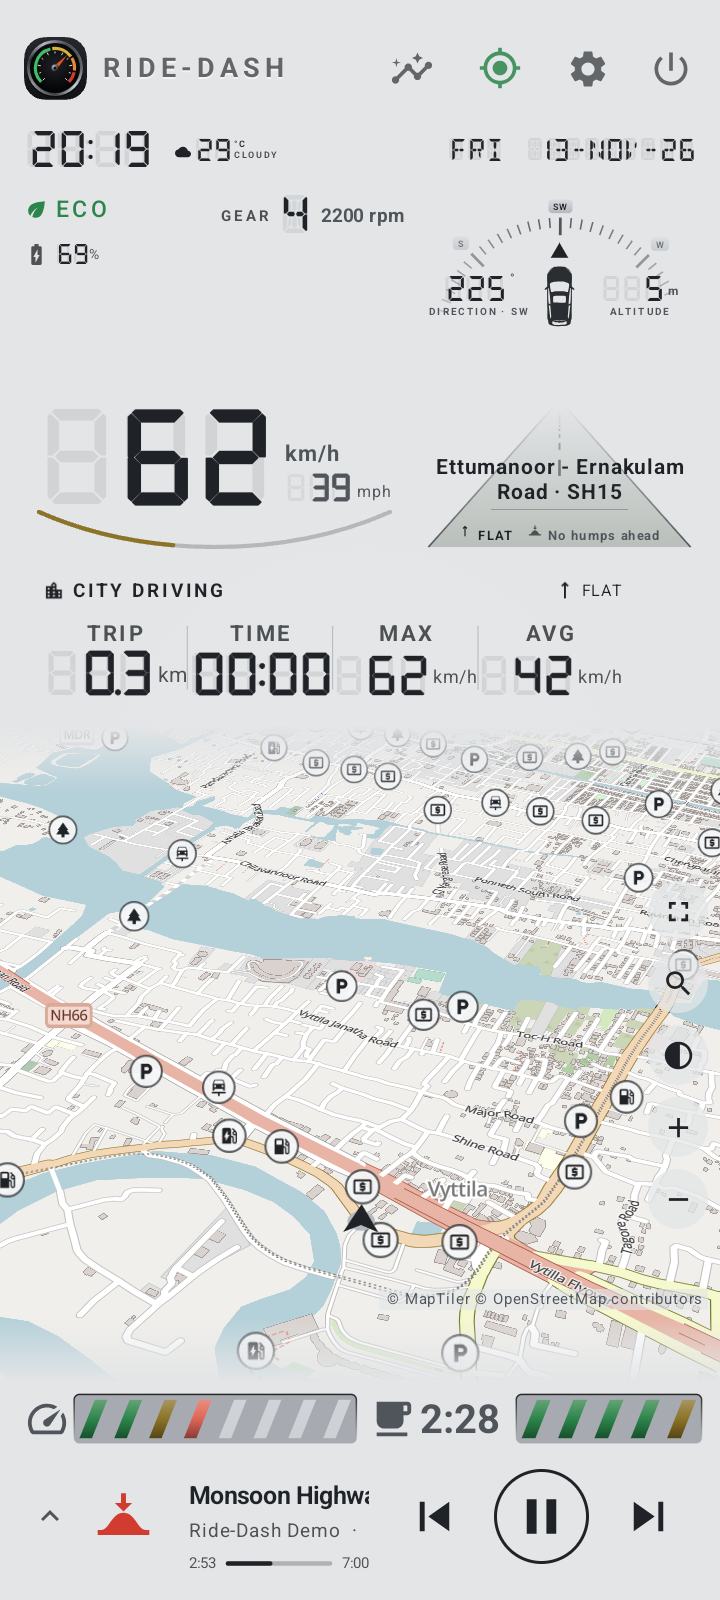
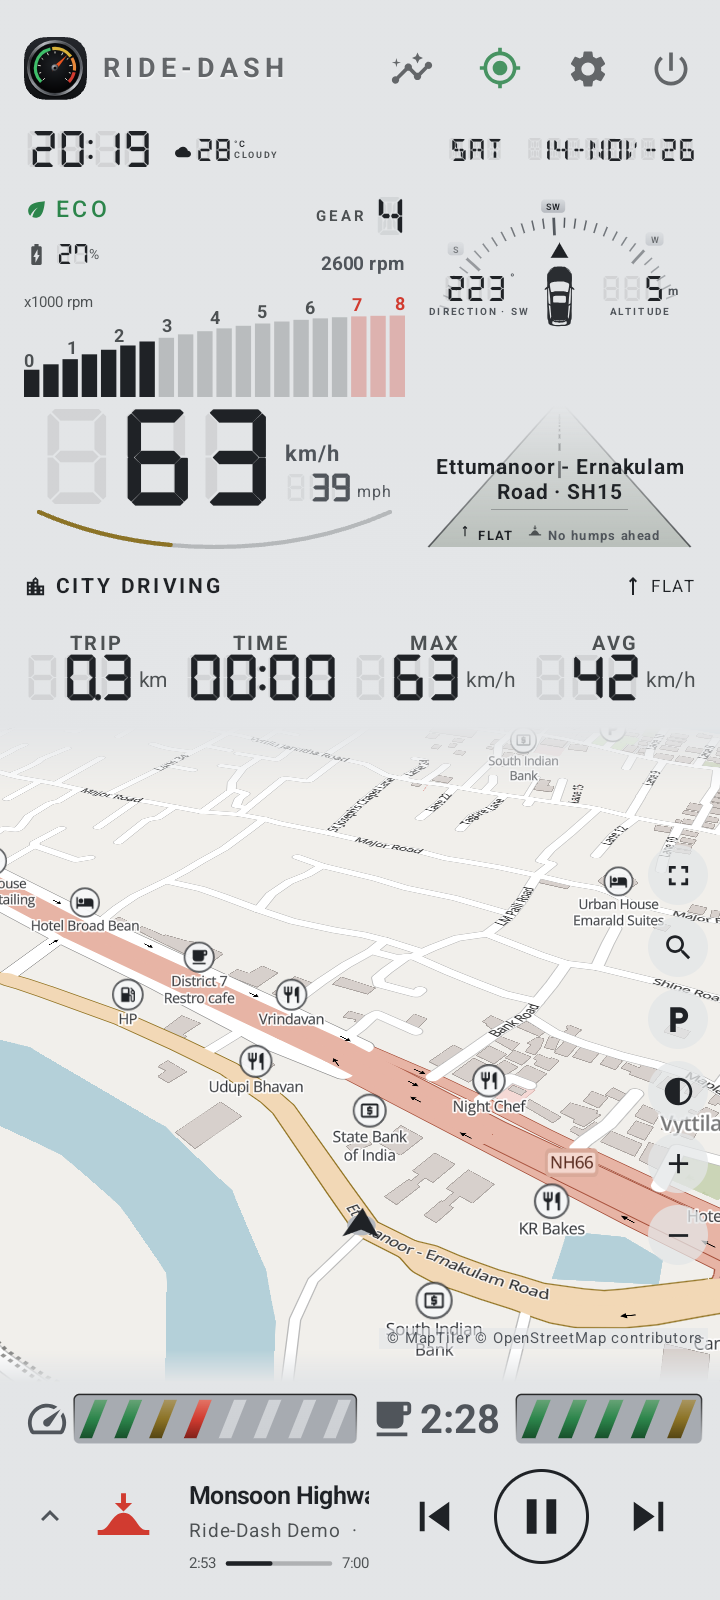
User manual 1.13.1 (portrait rpm display, full-width trip readouts, new portrait screenshots)

diff --git a/user-guide.md b/user-guide.md
@@ -13,13 +13,21 @@ works on the device; no account needed.
 
 ![Ride-Dash in the Duo layout](images/manual/duo_white_driving_1600x720.png)
 
-**Contents:** [What's new](#whats-new-in-1120) · [1 Installing](#1-installing) · [2 First start](#2-first-start) ·
+**Contents:** [What's new](#whats-new-in-1131) · [1 Installing](#1-installing) · [2 First start](#2-first-start) ·
 [3 The dashboard](#3-the-dashboard) · [4 Layouts and colours](#4-layouts-and-colours) · [5 Speed and speed limits](#5-speed-and-speed-limits) ·
 [6 Driving mode, terrain and road info](#6-driving-mode-terrain-and-road-info) · [7 Map](#7-map) ·
 [8 Places on the map](#8-places-on-the-map) · [9 Music](#9-music) · [10 Trips](#10-trips) ·
 [11 Breaks](#11-break-reminder) · [12 Speed breakers](#12-speed-breakers) · [13 Voice alerts](#13-voice-alerts) ·
 [14 Where's my car](#14-wheres-my-car) · [15 Settings](#15-settings-reference) ·
 [16 Export and storage](#16-export-storage-and-deleting-data) · [17 Troubleshooting](#17-troubleshooting)
+
+## What's new in 1.13.1
+
+- **Rpm display in portrait:** a row of rising bars above the speed lights up with the estimated rpm, red in the redline
+  part; gear and rpm sit on two lines above its right end (section 4).
+- **Portrait tidied up:** the trip readouts span the full width, the distance left and arrival time of a route are larger,
+  the speed-limit sign is small and at the map's top left (clear of the map buttons), and the start-up logo fits the screen.
+- **Speed bar:** runs from green through amber to a clear red on every layout.
 
 ## What's new in 1.13.0
 
@@ -268,8 +276,11 @@ You can also upload a background image, your logo and a picture of your car (*Se
 
 **Phone upright?** Choose *Portrait* (or *Auto rotate*) in *Settings › Display › Orientation*. Portrait has its own design,
 the same whichever layout you picked, in your colour scheme: the speed with gear and rpm next to the compass and road,
-the trip display, the map from edge to edge, and the music controls at the bottom. The top line shows the time and weather
-on the left and the day and date on the right; the phone's battery percentage is under the driving style (ECO).
+the trip display across the full width, the map from edge to edge, and the music controls at the bottom. The top line shows
+the time and weather on the left and the day and date on the right; the phone's battery percentage is under the driving
+style (ECO). Above the speed a row of rising bars shows the estimated rpm (numbered in thousands, red in the redline part),
+with the gear and the rpm number above its right end. The street name, or the next turn with the distance left and the
+arrival time, is on the road under the compass; the road's speed limit is the small sign at the map's top left.
 
 <img src="images/manual/portrait_white_driving_720x1600.png" alt="Portrait" width="260">
 <img src="images/manual/portrait_light_white_driving_720x1600.png" alt="Portrait with a light layout" width="260">
